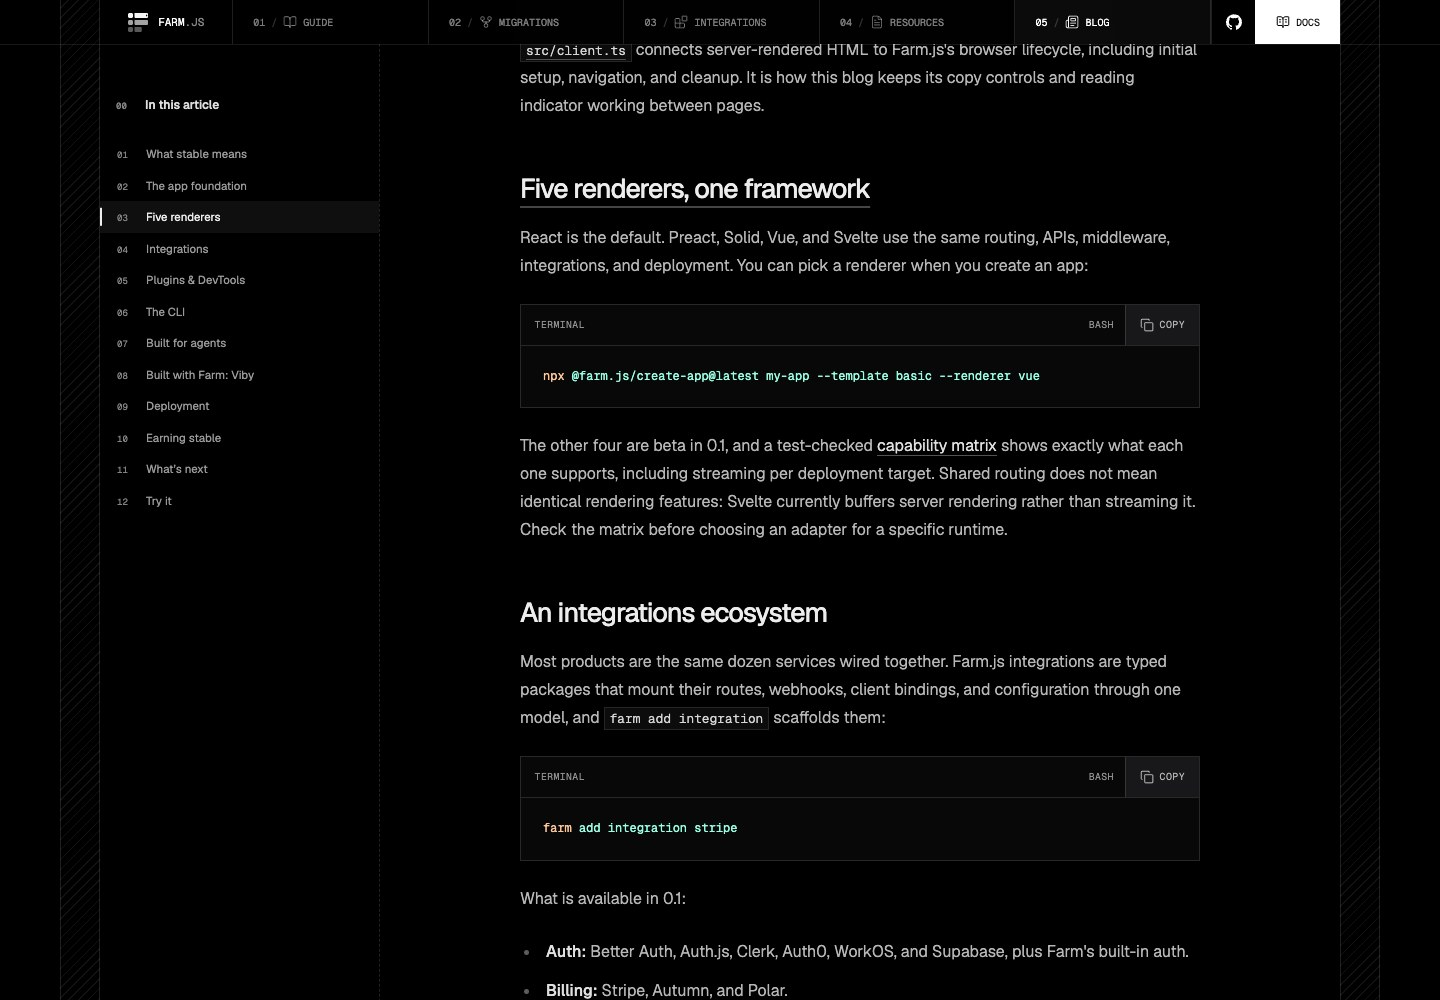
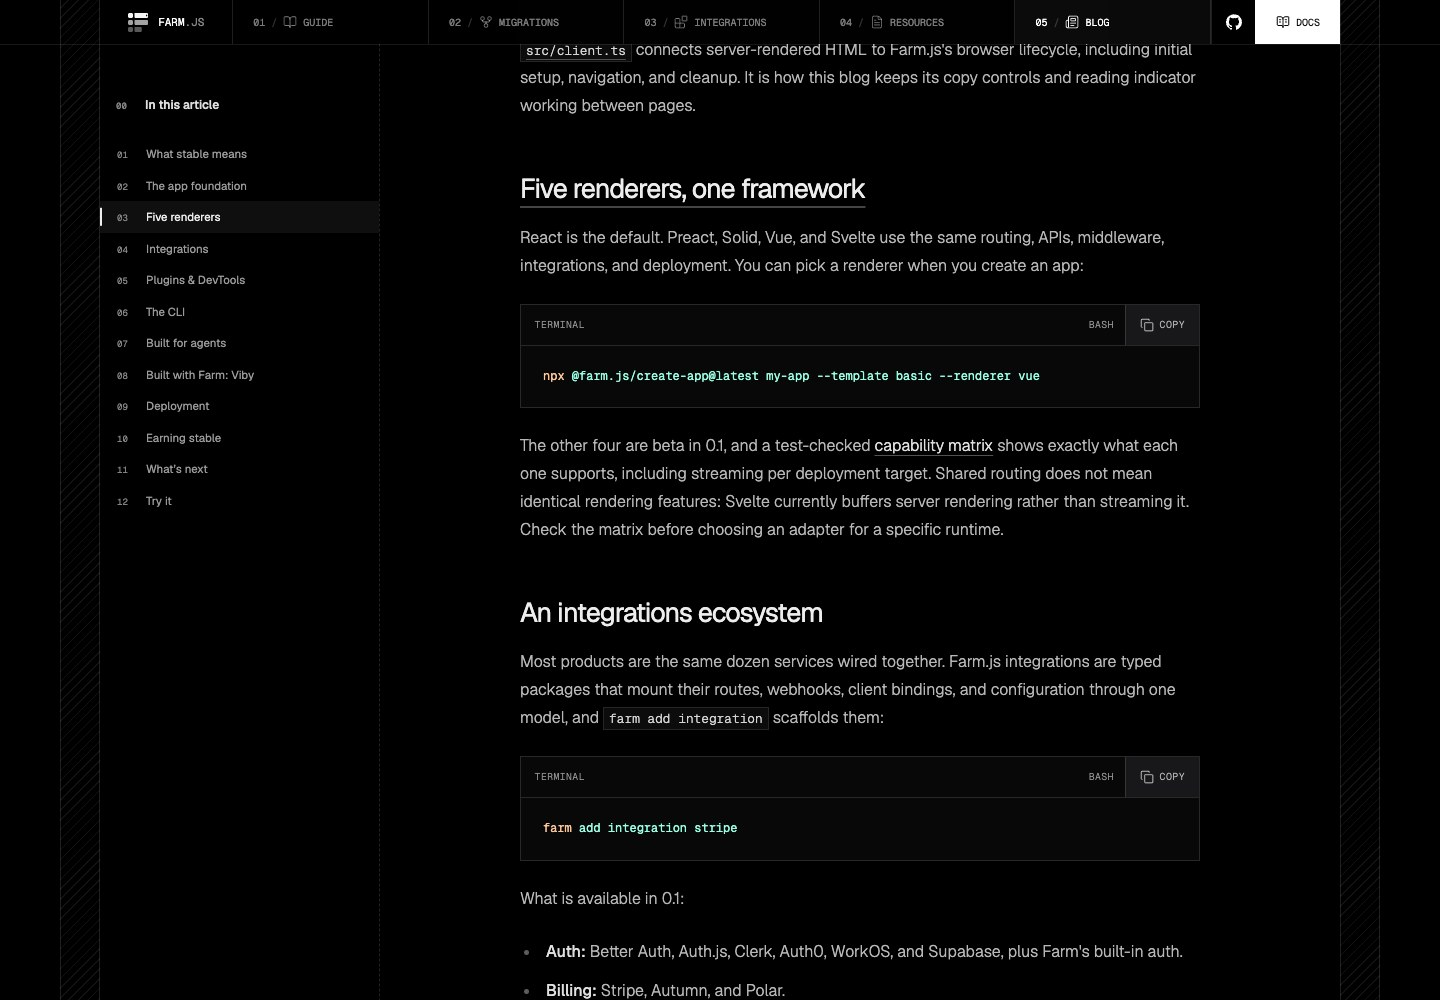
style(blog): lighten article reading weights

diff --git a/tests/e2e-production-sites/docs.production.spec.ts b/tests/e2e-production-sites/docs.production.spec.ts
@@ -177,15 +177,15 @@ test("blog uses Farm.js branding, lighter reading weights, and complete launch g
     await page.setViewportSize({ width, height: 1000 });
     await expect(prose.locator("p").filter({ hasText: /^Farm\.js 0\.1 is out/ })).toHaveCSS(
       "font-weight",
-      "350",
+      "300",
     );
     await expect(prose.locator("p").filter({ hasText: /^Patch releases/ })).toHaveCSS(
       "font-weight",
-      "350",
+      "300",
     );
-    await expect(prose.locator("li").first()).toHaveCSS("font-weight", "350");
-    await expect(prose.locator("h2").first()).toHaveCSS("font-weight", "450");
-    await expect(prose.locator("strong").first()).toHaveCSS("font-weight", "500");
+    await expect(prose.locator("li").first()).toHaveCSS("font-weight", "300");
+    await expect(prose.locator("h2").first()).toHaveCSS("font-weight", "400");
+    await expect(prose.locator("strong").first()).toHaveCSS("font-weight", "450");
     await expect(prose.locator("pre").first()).toHaveCSS("font-weight", "400");
     await expect(prose).toHaveCSS("font-size", width === 1440 ? "16px" : "15px");
   }

diff --git a/docs/src/app/blog/blog.css b/docs/src/app/blog/blog.css
@@ -654,7 +654,7 @@
 .blog-prose {
   color: var(--blog-copy);
   font-size: 16px;
-  font-weight: 350;
+  font-weight: 300;
   line-height: 1.85;
   overflow-wrap: break-word;
 }
@@ -682,7 +682,7 @@
   color: #ededed;
   margin: 52px 0 18px;
   font-size: 27px;
-  font-weight: 450;
+  font-weight: 400;
   line-height: 1.25;
   letter-spacing: -0.035em;
 }
@@ -690,7 +690,7 @@
   color: #ededed;
   margin: 32px 0 14px;
   font-size: 20px;
-  font-weight: 450;
+  font-weight: 400;
   line-height: 1.35;
   letter-spacing: -0.02em;
 }
@@ -715,7 +715,7 @@
 }
 .blog-prose strong {
   color: #e0e0e0;
-  font-weight: 500;
+  font-weight: 450;
 }
 .blog-prose a {
   color: #e0e0e0;
